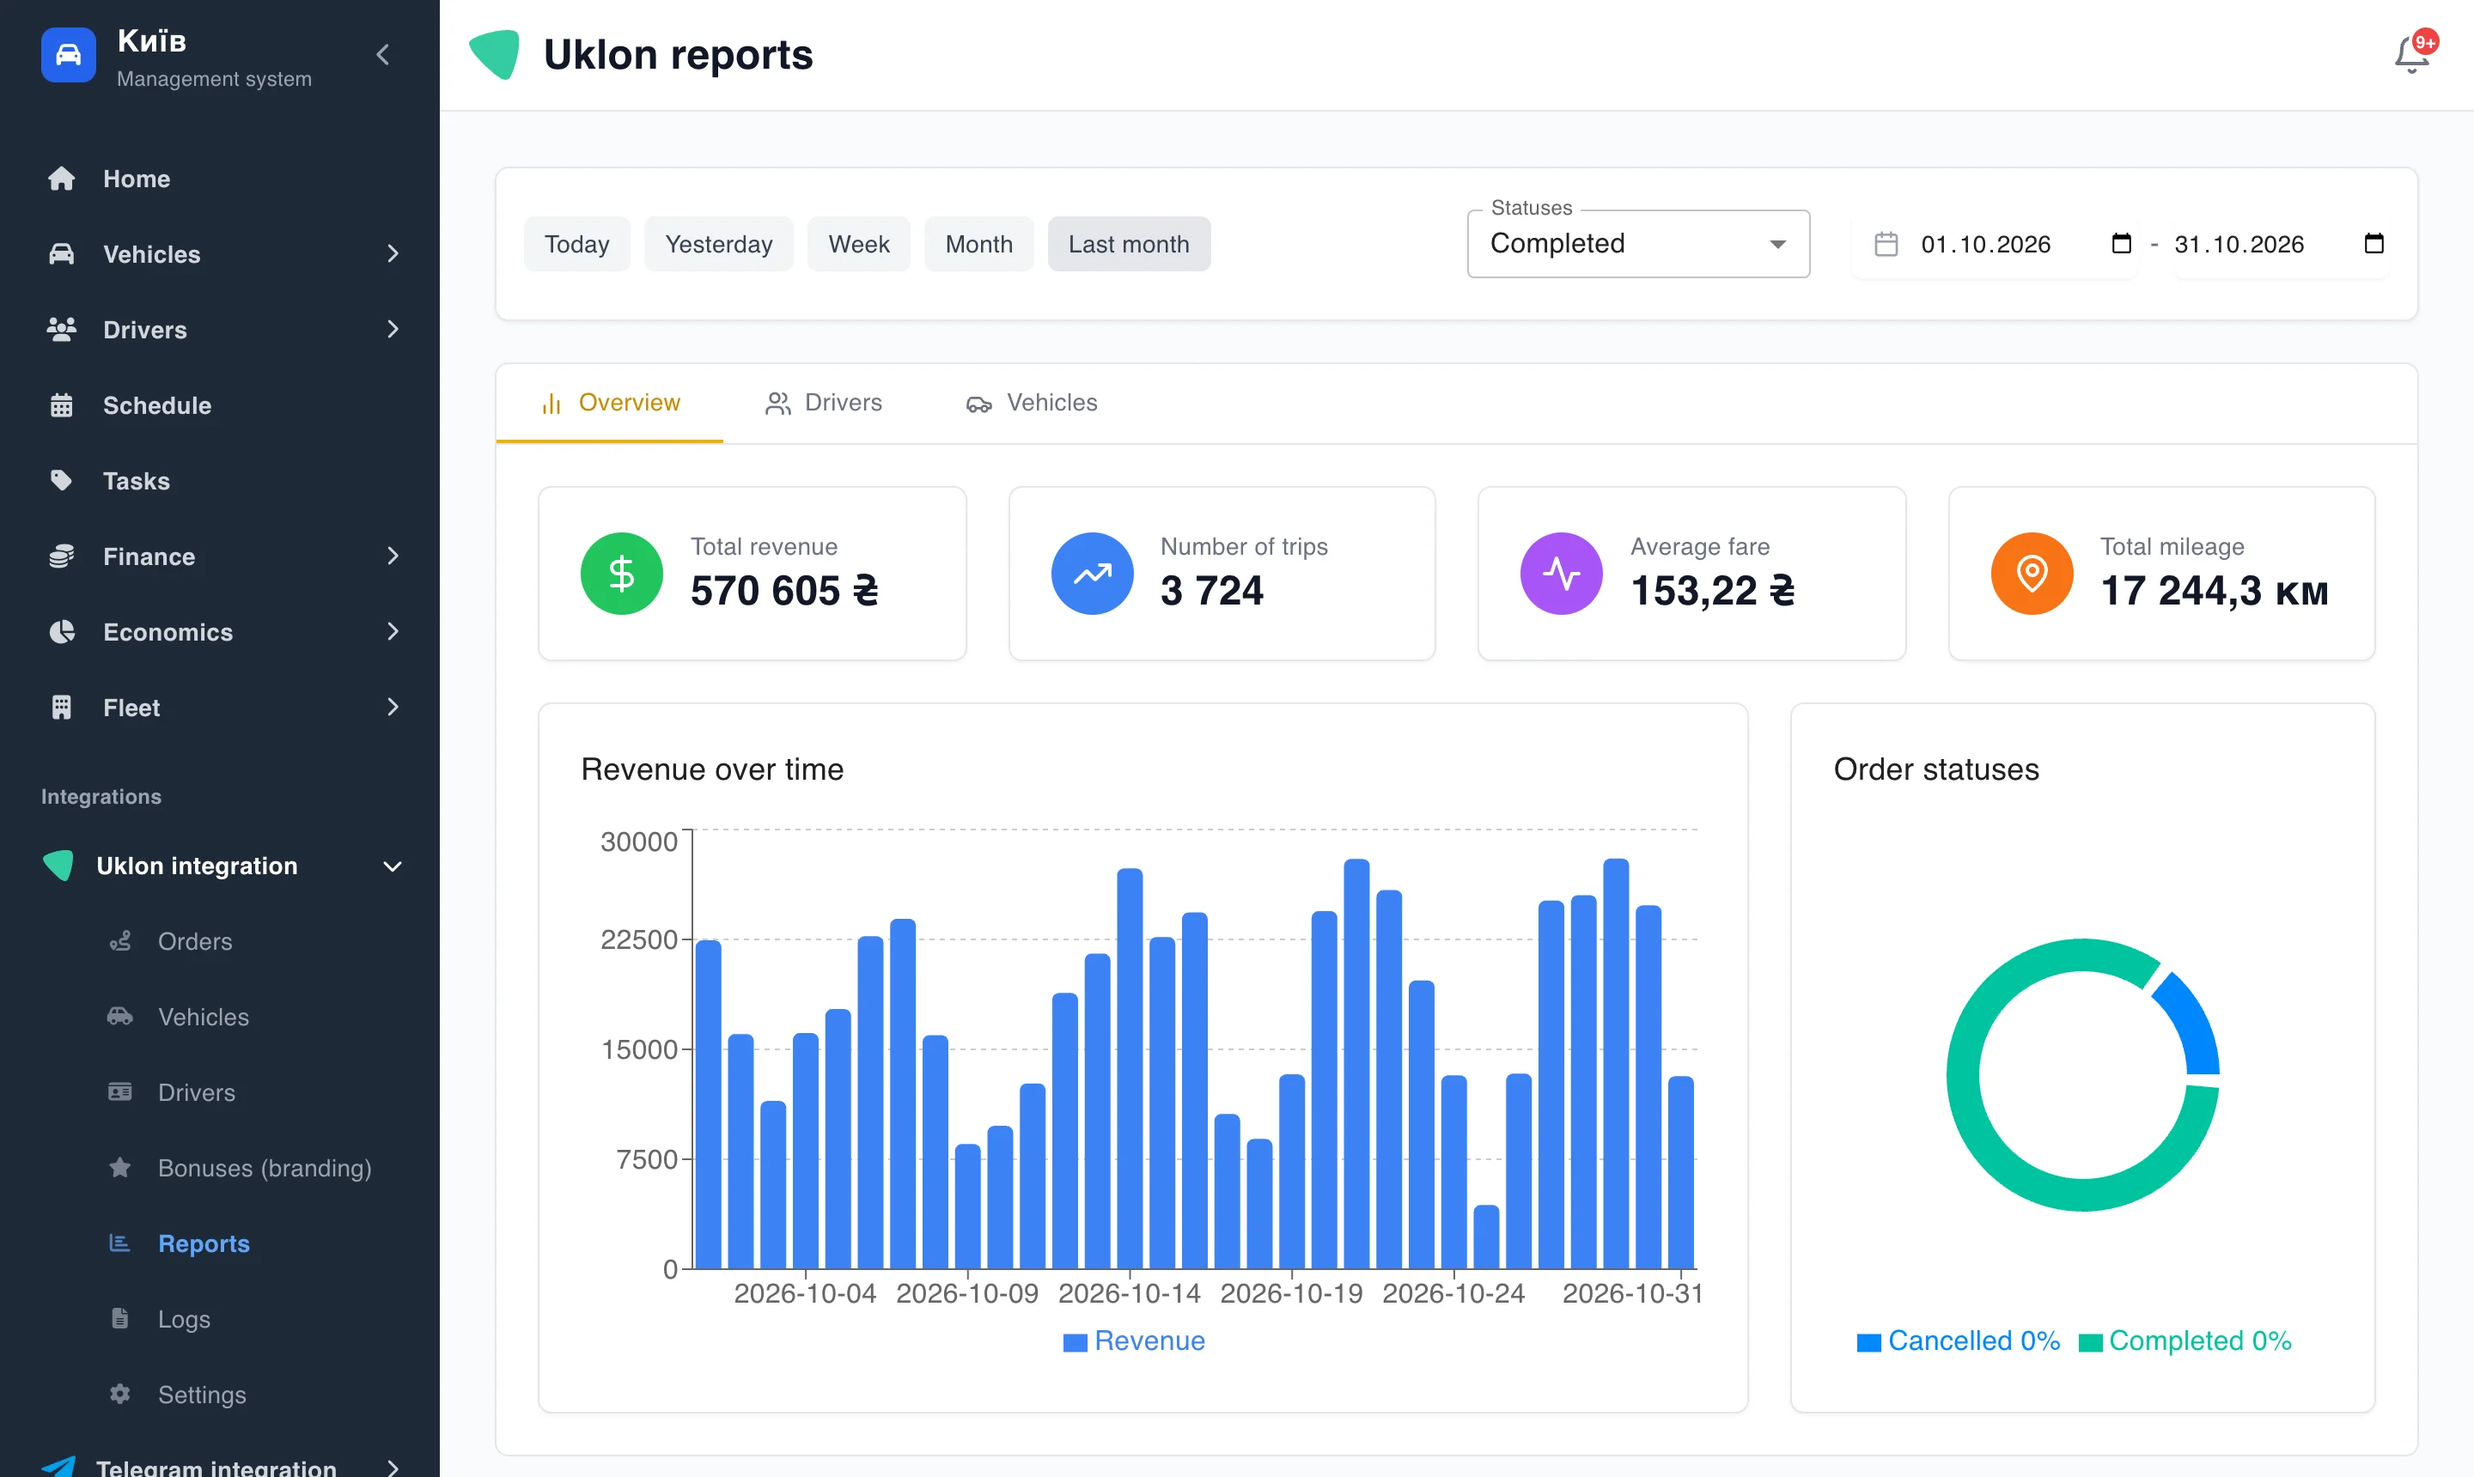
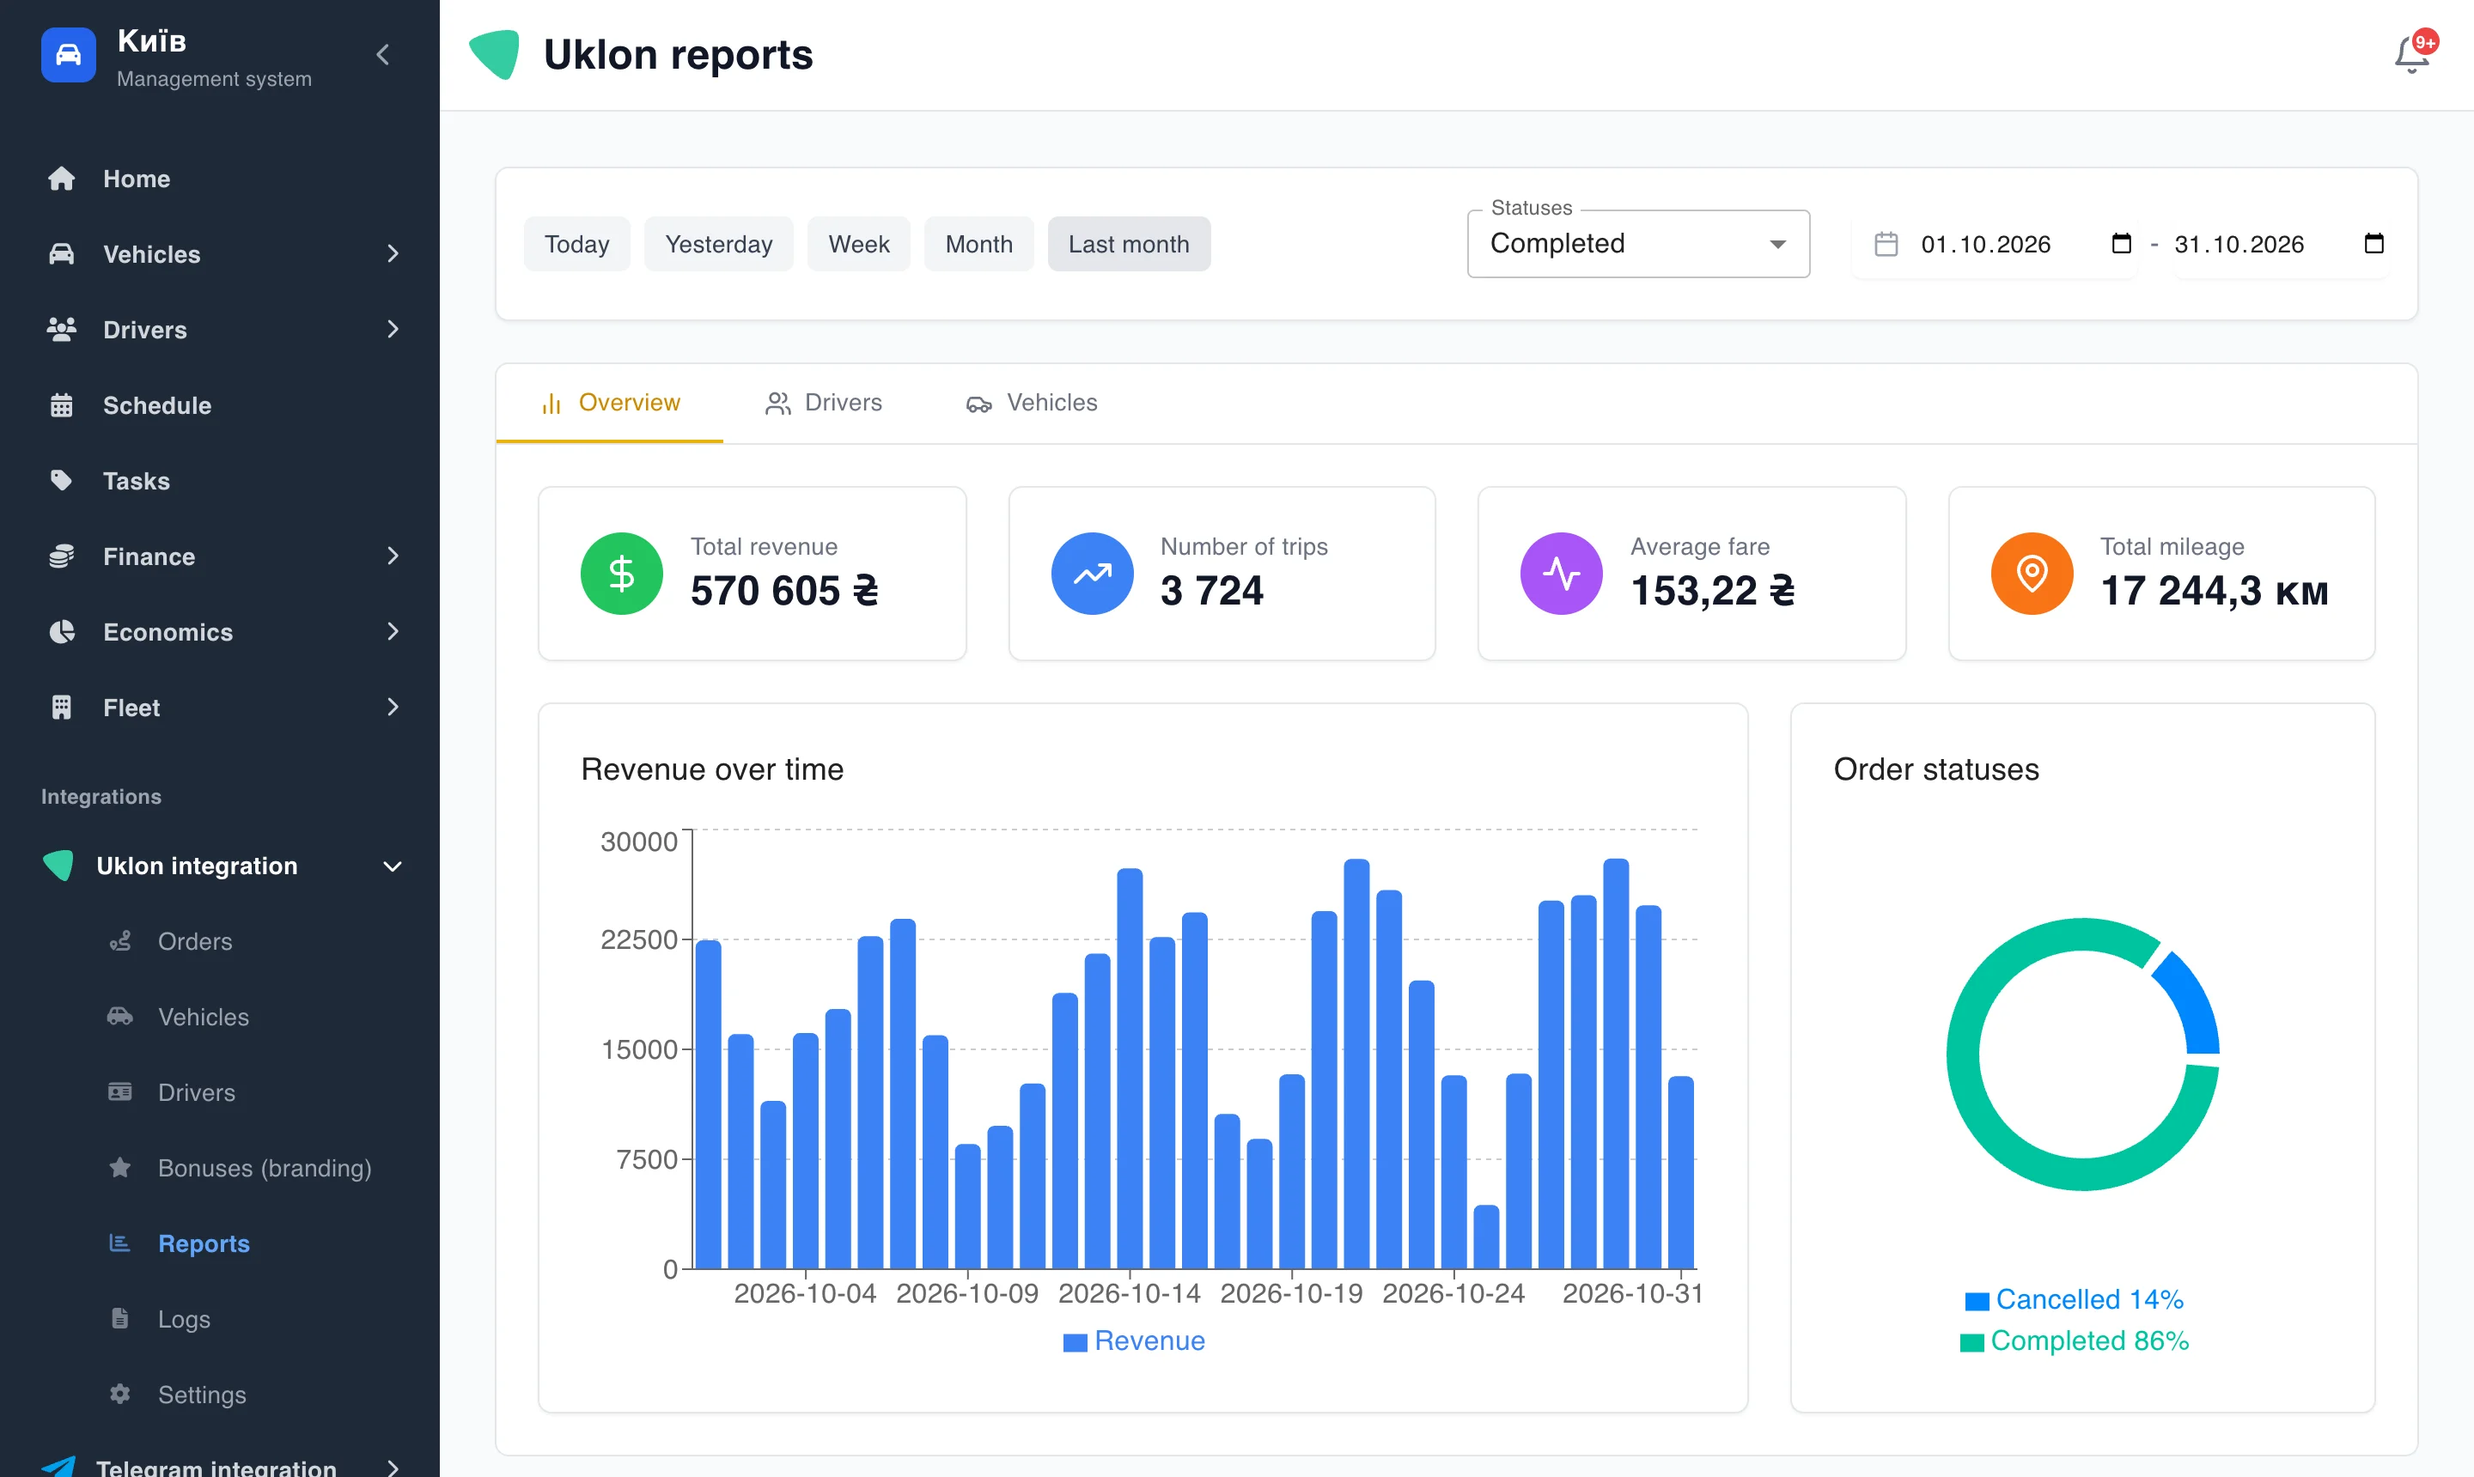
багато правок

Changed region(s): [[0.7812, 0.6163, 0.9062, 0.832], [0.75, 0.8628, 0.9375, 0.9244]]

diff --git a/www/tests/BlogTest.php b/www/tests/BlogTest.php
@@ -64,6 +64,14 @@ return [
             check(str_starts_with($en['image'], '/assets/img/blog/synced/en/shift/cover-'), 'англійська обкладинка — у теці en: ' . $en['image']);
             check(str_starts_with(BlogStore::post('shift', 'uk')['image'], '/assets/img/blog/synced/uk/shift/'), 'українська — у теці uk');
             check(str_contains(file_get_contents(BlogStore::file('shift', 'en')), '](/assets/img/blog/synced/en/shift/img-'), 'картинка тексту en — локальна, у теці en');
+            // Файли, на які посилаються стаття й обкладинка, справді лежать на диску (і після повторної синхронізації)
+            (new BlogSync($fetch))->run($feed());
+            foreach (['uk', 'en'] as $l) {
+                preg_match_all('#\]\((/assets/img/blog/synced/[^)]+)\)#', file_get_contents(BlogStore::file('shift', $l)), $m);
+                foreach ([...$m[1], BlogStore::post('shift', $l)['image']] as $url) {
+                    check(is_file($root . $url), "{$l}: немає файлу {$url}");
+                }
+            }
             same(['uk', 'en'], BlogStore::localesOf('shift'));
         } finally {
             $teardown($root);

diff --git a/www/app/Blog/BlogSync.php b/www/app/Blog/BlogSync.php
@@ -141,7 +141,11 @@ final class BlogSync
     {
         return preg_replace_callback(
             '/!\[([^\]]*)\]\((https?:\/\/[^\)\s]+)\)/',
-            fn ($m) => '![' . $m[1] . '](' . ($this->syncImage($m[2], $locale, $slug, 'img', $kept) ?? $m[2]) . ')',
+            // Не стрілкова функція: вона захоплює $kept копією — картинки не потрапили б у «залишити» й одразу
+            // видалились би як застарілі
+            function ($m) use ($locale, $slug, &$kept) {
+                return '![' . $m[1] . '](' . ($this->syncImage($m[2], $locale, $slug, 'img', $kept) ?? $m[2]) . ')';
+            },
             $content
         );
     }

diff --git a/www/app/I18n/README.md b/www/app/I18n/README.md
@@ -49,6 +49,11 @@
 Після заливки змінених шаблонів (`views/`) по FTP — очистити `storage/cache/`: скомпільовані шаблони Blade можуть
 лишитися старими (FTP зберігає дату файлу, старшу за скомпільовану копію). Перекомпілюються самі.
 
+Те саме з PHP-кодом (`app/`): opcache на сервері перечитує файл за датою зміни, а FTP лишає стару дату — сервер і далі
+виконує стару версію. Після заливки `.php` — оновити дату файлу на сервері (залити так, щоб дата стала новою) або
+скинути opcache. Перевірка, що новий код працює: поведінка, а не лише наявність файлу (01.11.2026 виправлення
+`BlogSync` «не діяло», поки не оновили дату).
+
 ## Тести
 
 `docker compose exec -T php php /var/www/landing/tests/run.php` (з кореня `park`).
